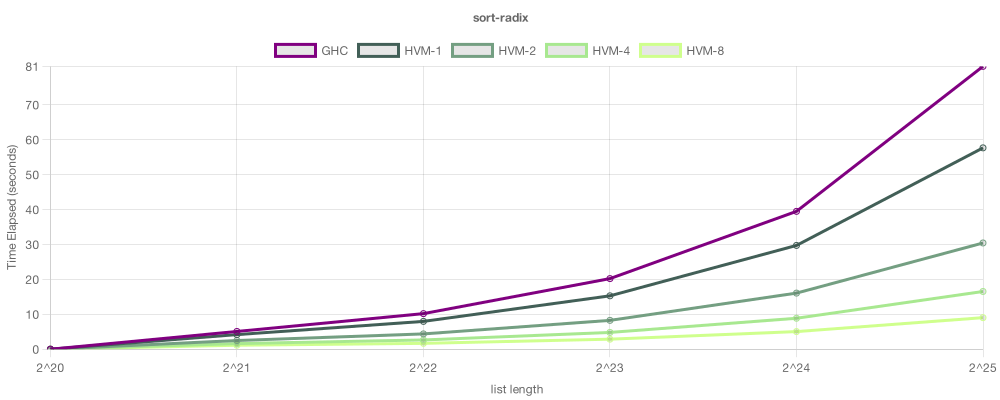
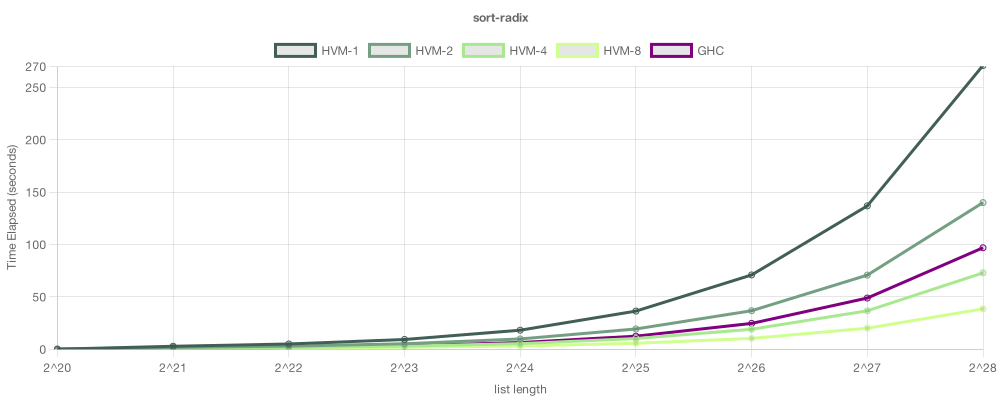
Update Radix Sort benchmark with strictness annotations

diff --git a/bench/benchmark.js b/bench/benchmark.js
@@ -4,6 +4,30 @@ var exec_sync = require("child_process").execSync;
 var SMALL = false;
 
 var langs = {
+
+  HVM: {
+    tids: [1, 2, 4, 8],
+    tasks: {
+      "sort/bubble": [0, 64],
+      "sort/bitonic": [20, 24],
+      "sort/quick": [20, 24],
+      "sort/radix": [20, 24],
+      "lambda/arithmetic": [0, 120],
+    },
+    build: (task) => {
+      exec("cp ../../examples/"+task+"/main.hvm main.hvm");
+      exec("hvm compile main.hvm");
+      exec("cd main; cargo build --release; mv target/release/main ../main.bin");
+    },
+    bench: (task, size, tids) => {
+      return bench('./main.bin run -t '+tids+' "(Main ' + size + ')" 2>/dev/null');
+    },
+    clean: () => {
+      exec("rm main.hvm");
+      exec("rm main.bin");
+    },
+  },
+
   GHC: {
     tids: [1],
     tasks: {
@@ -28,28 +52,6 @@ var langs = {
     },
   },
 
-  HVM: {
-    tids: [1, 2, 4, 8],
-    tasks: {
-      "sort/bubble": [0, 64],
-      "sort/bitonic": [20, 24],
-      "sort/quick": [20, 24],
-      "sort/radix": [20, 24],
-      "lambda/arithmetic": [0, 120],
-    },
-    build: (task) => {
-      exec("cp ../../examples/"+task+"/main.hvm main.hvm");
-      exec("hvm compile main.hvm");
-      exec("cd main; cargo build --release; mv target/release/main ../main.bin");
-    },
-    bench: (task, size, tids) => {
-      return bench('./main.bin run -t '+tids+' "(Main ' + size + ')" 2>/dev/null');
-    },
-    clean: () => {
-      exec("rm main.hvm");
-      exec("rm main.bin");
-    },
-  },
 };
 
 // Enters the work directory

diff --git a/README.md b/README.md
@@ -1,31 +1,25 @@
 High-order Virtual Machine (HVM)
 =================================
 
-**High-order Virtual Machine (HVM)** is a pure functional runtime that is
-**lazy**, **non-garbage-collected** and **massively parallel**. It is also
-**beta-optimal**, meaning that, for higher-order computations, it can be
+**High-order Virtual Machine (HVM)** is a pure functional runtime that is **lazy**, **non-garbage-collected** and
+**massively parallel**. It is also **beta-optimal**, meaning that, for higher-order computations, it can be
 exponentially faster than alternatives, including Haskell's GHC.
 
-That is possible due to a new model of computation, the **Interaction Net**, which
-supersedes the **Turing Machine** and the **Lambda Calculus**. Previous implementations
-of this model have been inefficient in practice, however, a recent breakthrough
-has drastically improved its efficiency, resulting in the HVM. Despite being
-relatively new, it already beats mature compilers in many cases, and is set to
-scale towards uncharted levels of performance.
+That is possible due to a new model of computation, the **Interaction Net**, which supersedes the **Turing Machine** and
+the **Lambda Calculus**. Previous implementations of this model have been inefficient in practice, however, a recent
+breakthrough has drastically improved its efficiency, resulting in the HVM. Despite being relatively new, it already
+beats mature compilers in many cases, and is set to scale towards uncharted levels of performance.
 
 **Welcome to the massively parallel future of computers!**
 
 Examples
 ========
 
-Essentially, HVM is a minimalist functional language that is compiled to a
-novel runtime based on [Interaction
+Essentially, HVM is a minimalist functional language that is compiled to a novel runtime based on [Interaction
 Nets](https://pdf.sciencedirectassets.com/272575/1-s2.0-S0890540100X00600/1-s2.0-S0890540197926432/main.pdf?X-Amz-Security-Token=IQoJb3JpZ2luX2VjEEkaCXVzLWVhc3QtMSJGMEQCIDQQ1rA8jV9UQEKlaFzLfqINP%2B%2FrcTj4NCbI40n%2FrGbyAiBLG%2FpnaXmp6BGaG1Yplr3YYsHzxet6aQXc1qnkbb3W0irMBAhSEAUaDDA1OTAwMzU0Njg2NSIM1FOMCDHcoyvFFAU6KqkEgJPcH6B8%2BRYsdLtUERtVlwtcXZBW38xnvb%2FPRSkmxcNaK%2BmQTa7L3ZFuZt9rpNjrB3sJHg%2Bxc%2FqdAF%2FsthEb1NreHNze7LmbStuRufZCGEcxax%2FsyjnSb9bnrHuDEpnck1Dhk2YPqR8%2Bim%2BdQisDUp%2F4torZsCK1%2BPAEQkQAmGqinioexAr8dEE0BOlHgxBz5YRIkV9pjLoq%2FjWFqiUSO2bPdVi2AfpDbXI48ek6gQs%2F6VTIFRShfezfAr1HoDlQEoyyVYnVy6wI%2Fu1WVB%2FA0JJHK1B7rZFEYilPSAdUpVSOvjhNHN9elxIxlFX6hOZz3YJ4QDeLCPztfMClYYxAex6hoBBVzTkRzszs18hK1K%2FMUMwF4o%2FDy1i3WLeUmC36CL7WXDik%2BTZ7WjJNYGVRILH6cDsHrg17A0MVI5njvw7iM%2FrYKoOgBD2ESct4nO3mpRkKVq%2F9UyKScwVT5VrNpuLWLnrg29BDvE%2BDoFI6c71cisENjhIhGPNrBCQvZLNe1k%2BD54NyfqOe4a1DguuzxBnsNj6BBD2lM6TyDvCz9w36u194aN8oks9hLuTuKp7Rk05dTt6rj4pThkHA%2FQQymmx74MlQtTXTnD5v%2F%2BmGSUz6vHzqaV2Ft5xjWf9w9NJHfTkFkpxNEv8fTUUSMBEhL4nF8wj0wiNbSwp9NvPOj3YMIG2icNxdAZyNsJYJUowOCXi4JTwCkqb2WdNOi88pOSaAautZrBg7nzCKyuCbBjqqATOzXItndBn%2Be6oyH2l8sD%2B5v%2FjIqCz8%2Bx%2Bz%2FZA3dntddFac64iWFGPbJeRGw05BiPX5TKBnrR%2BmaqfO%2F7SxoYfTV4hl5Z2lmJcoiEd%2BWUmNK2wntMlGtFn%2FmFeeljKBeMxnfh8DN0qRz10NZAfxhvqxAEBu67G0ZXpECGxr8fAiBrdvnEac6rWfv8%2FT0VA%2Fu6xjIMIrrwU65xAuVuIG%2BXpsdC073VLm1%2BEW&X-Amz-Algorithm=AWS4-HMAC-SHA256&X-Amz-Date=20221119T011901Z&X-Amz-SignedHeaders=host&X-Amz-Expires=300&X-Amz-Credential=ASIAQ3PHCVTYYRK5XVMW%2F20221119%2Fus-east-1%2Fs3%2Faws4_request&X-Amz-Signature=74892553e56ba432350974a6f4dbebfd97418e2187a5c4e183da61dd0e951609&hash=bc1de316d0b6ee58191106c1cdbc34d1eaeab536a9bbc02dfae09818a8cc2510&host=68042c943591013ac2b2430a89b270f6af2c76d8dfd086a07176afe7c76c2c61&pii=S0890540197926432&tid=spdf-00500b38-a41c-4d5b-98bb-4a2754da3953&sid=17532fa99b4522476f2b00d636dc838e7e36gxrqa&type=client&ua=515904515402570a0401&rr=76c51d7eea7b4d36).
-This approach is not only memory-efficient (no GC needed), but also has two
-significant advantages: **automatic parallelism** and **beta-optimality**. The
-idea is that you write a simple functional program, and HVM will turn it into a
-massively parallel, beta-optimal executable. The examples below highlight these
-advantages in action.
+This approach is not only memory-efficient (no GC needed), but also has two significant advantages: **automatic
+parallelism** and **beta-optimality**. The idea is that you write a simple functional program, and HVM will turn it into
+a massively parallel, beta-optimal executable. The examples below highlight these advantages in action.
 
 Bubble Sort
 -----------
@@ -75,14 +69,12 @@ swapGT 1 v x xs = Cons x (insert v xs)
 
 ![](bench/_results_/sort-bubble.png)
 
-On this example, we run a simple, recursive [Bubble
-Sort](https://en.wikipedia.org/wiki/Bubble_sort) on both HVM and GHC (Haskell's
-compiler). Notice the algorithms are identical. The chart shows how much time
-each runtime took to sort a list of given size (the lower, the better). The
-purple line shows GHC (single-thread), the green lines show HVM (1, 2, 4 and 8
-threads). As you can see, both perform similarly, with HVM having a small edge.
-Sadly, here, its performance doesn't improve with added cores. That's because
-Bubble Sort is an *inherently sequential* algorithm, so HVM can't improve it.
+On this example, we run a simple, recursive [Bubble Sort](https://en.wikipedia.org/wiki/Bubble_sort) on both HVM and GHC
+(Haskell's compiler). Notice the algorithms are identical. The chart shows how much time each runtime took to sort a
+list of given size (the lower, the better). The purple line shows GHC (single-thread), the green lines show HVM (1, 2, 4
+and 8 threads). As you can see, both perform similarly, with HVM having a small edge.  Sadly, here, its performance
+doesn't improve with added cores. That's because Bubble Sort is an *inherently sequential* algorithm, so HVM can't
+improve it.
 
 Radix Sort
 ----------
@@ -163,18 +155,15 @@ merge (Both a b) (Both c d) =
 
 ![](bench/_results_/sort-radix.png)
 
-On this example, we try a [Radix
-Sort](https://en.wikipedia.org/wiki/Radix_sort), based on merging immutable
-trees. This time, HVM's performance improves proportionally to the number of
-cores. As such, in this test, it was able to sort large lists **9x faster** than GHC! That's because
-GHC is locked to a single thread, while HVM exploits the fact that tree-merging
-is *inherently parallel*. Of course, one could parallelize the Haskell version
-with `par` annotations, but that would require refactoring. Usually, doing so is
-very hard and time-consuming. In some cases, it is even *impossible* to use all
-the available parallelism with `par` alone. HVM, on the other hands, will
-automatically distribute the workload evenly among all available cores, with
-no added programmer effort.
+On this example, we try a [Radix Sort](https://en.wikipedia.org/wiki/Radix_sort), based on merging immutable trees. In
+this test, for now, single-thread performance was superior on GHC - and this is often the case, since GHC is much older
+and has astronomically more micro-optimizations - yet, since this algorithm is *inherently parallel*, HVM was able to
+outperform GHC given enough cores. With **8 threads**, HVM sorted a large list **2.5x faster** than GHC.
 
+Keep in mind one could parallelize the Haskell version with `par` annotations, but that would demand time-consuming,
+expensive refactoring - and, in some cases, it isn't even *possible* to use all the available parallelism with `par`
+alone. HVM, on the other hands, will automatically distribute parallel workloads through all available cores, achieving
+horizontal scalability. As HVM matures, the single-thread gap will decrease significantly.
 
 Lambda Multiplication
 ---------------------
@@ -240,17 +229,13 @@ mul xs ys =
 
 ![](bench/_results_/lambda-multiplication.png)
 
-This example implements bitwise multiplication using
-[λ-encodings](https://en.wikipedia.org/wiki/Church_encoding). Its purpose is to
-show yet another important advantage of HVM: beta-optimality. This chart isn't
-wrong: HVM multiplies λ-encoded numbers **exponentially faster** than GHC, since
-it can deal with very higher-order programs with optimal asymptotics, while GHC
-can not. As esoteric as this technique may look, it can actually be very useful
-to design efficient functional algorithms. One application, for example, is to
-implement [runtime
-deforestation](https://github.com/Kindelia/HVM/issues/167#issuecomment-1314665474)
-for immutable datatypes. In general, HVM is capable of applying any fusible
-function `2^n` times in linear time, which sounds impossible, but is indeed true.
+This example implements bitwise multiplication using [λ-encodings](https://en.wikipedia.org/wiki/Church_encoding). Its
+purpose is to show yet another important advantage of HVM: beta-optimality. This chart isn't wrong: HVM multiplies
+λ-encoded numbers **exponentially faster** than GHC, since it can deal with very higher-order programs with optimal
+asymptotics, while GHC can not. As esoteric as this technique may look, it can actually be very useful to design
+efficient functional algorithms. One application, for example, is to implement [runtime
+deforestation](https://github.com/Kindelia/HVM/issues/167#issuecomment-1314665474) for immutable datatypes. In general,
+HVM is capable of applying any fusible function `2^n` times in linear time, which sounds impossible, but is indeed true.
 
 *Charts made on [plotly.com](https://chart-studio.plotly.com/).*
 
